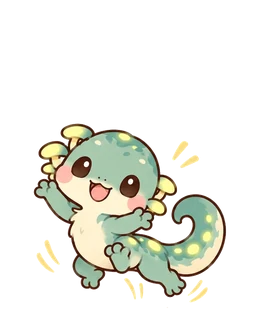
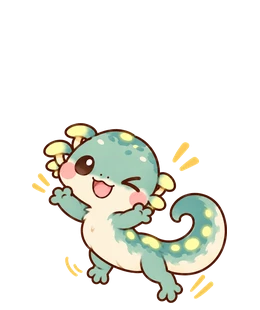
さらら・ほたるび の 絵 5まい を 手あし の 数 を 直した 絵 に 差し替え

Changed region(s): [[0.1231, 0.3774, 0.8923, 0.9871], [0.6462, 0.4355, 0.7692, 0.5516]]

diff --git a/index.html b/index.html
@@ -5,10 +5,10 @@
 <link rel="icon" type="image/png" sizes="64x64" href="favicon.png?v=3">
 <link rel="apple-touch-icon" href="apple-touch-icon.png?v=3">
 <link rel="manifest" href="manifest.json">
-<script src="stickers/stickers.js?v=202610280820"></script>
-<script src="nakama/nakama.js?v=202610280820"></script>
-<script src="clock/clock.js?v=202610280820"></script>
-<script src="drill/patterns.js?v=202610280820"></script>
+<script src="stickers/stickers.js?v=202610280821"></script>
+<script src="nakama/nakama.js?v=202610280821"></script>
+<script src="clock/clock.js?v=202610280821"></script>
+<script src="drill/patterns.js?v=202610280821"></script>
 <meta name="apple-mobile-web-app-title" content="けいさん">
 <link rel="preconnect" href="https://fonts.googleapis.com">
 <link rel="preconnect" href="https://fonts.gstatic.com" crossorigin>
@@ -3466,7 +3466,7 @@ body.course .levels.nrange .lv{padding:3px 2px;font-size:12px}
   const nkSp = id => NK_LIST.find(x=>x.id===id) || NK_LIST[0];
   // ちいさい だんかいは すこし おおきく みせる（そだって いる かんじは のこす）
   const NK_SCALE = [1.9, 1.5, 1.15, 1, 1, 1];
-  const NK_IMG_VER = "6";   // なかまの え を さしかえたら ばんごうを あげる（ふるい え が のこらない ように）
+  const NK_IMG_VER = "7";   // なかまの え を さしかえたら ばんごうを あげる（ふるい え が のこらない ように）
   const nkImgSrc = (id, stage, mood) => `nakama/${id}/${NK_STAGES[stage]}_${stage===0 && mood==="s" ? "n" : mood}.webp?v=${NK_IMG_VER}`;
   const dkDate = k => { const [y,m,d]=k.split("-").map(Number); return new Date(y, m-1, d); };
   const dkAdd = (k, n) => { const d=dkDate(k); d.setDate(d.getDate()+n); return dayKey(d); };

diff --git a/CHANGELOG.md b/CHANGELOG.md
@@ -12,6 +12,9 @@
 ## 2026-10-28
 
 ### 修正（なかま）
+- **13:01** さらら（わかもの・ひる／おとな・あさ）、ほたるび（こども・ひる／わかもの・ひる）の絵で、手やあしの数がおかしかったのを直しました。
+
+### 修正（なかま）
 - **12:25** ぽぷら（こども・しょんぼり／わかもの・ねむい）、ふわりん（こども・あさ）、こむぎ（こども・あさ／ひる）の絵で、手やあしの数がおかしかったのを直しました。
 
 ### 修正（なかま）
